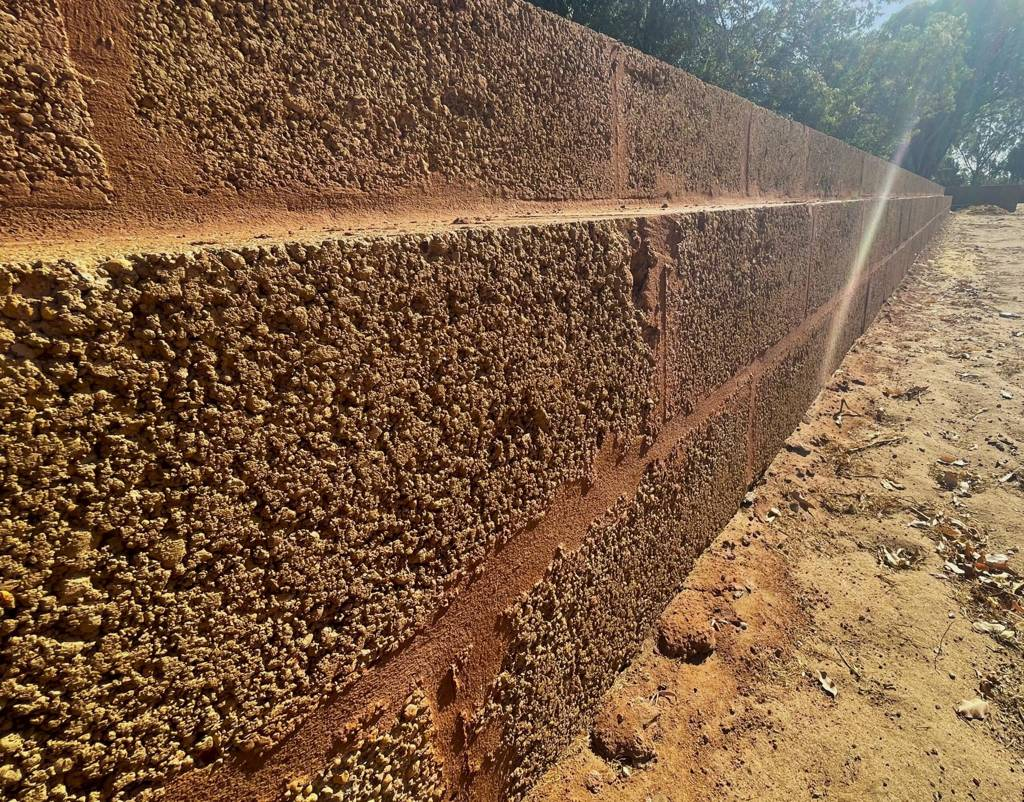
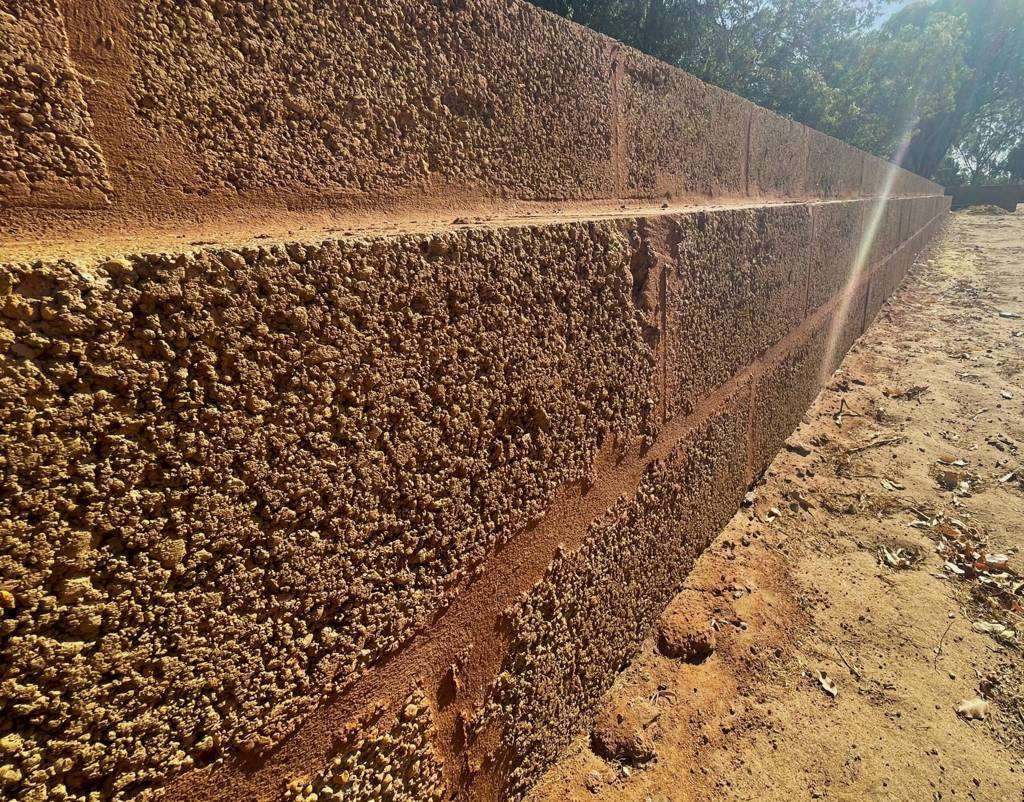
Q1 Freestanding uses limestone-pier; compress something-else

diff --git a/quiz-styles/blend.html b/quiz-styles/blend.html
@@ -45,7 +45,7 @@ select,input,textarea{background:#1f1f1f;border:1px solid #3a3a3a;color:#fff}.co
 <div class="rc"><div class="who"><div class="av">R</div><div><b>Ryan marshall</b><div class="stars">★★★★★</div></div></div><q>“Quick response, accurate online quote”</q></div><div class="rc"><div class="who"><div class="av">E</div><div><b>Emma Horne</b><div class="stars">★★★★★</div></div></div><q>“We couldn’t be happier!”</q></div><div class="rc"><div class="who"><img src="../quiz-plan/img/nasir-mastor.jpg"><div><b>Nasir Mastor</b><div class="stars">★★★★★</div></div></div><q>“Quicker than expected”</q></div></div>
 <div class="prom"><b>The $500 Two-Day Quote Promise:</b> your quote in 2 days or we pay you $500.*</div>
 <a class="cta" href="#quiz">GET MY PRICE →</a></header><div class="qz" id="quiz"><div class="hero"><button class="back" onclick="back()">← Back</button><span class="wm">GABION FABRICATION</span></div><div class="wrap"><div class="count"></div><div class="bar" style="margin-top:8px"><i></i></div>
-<section class="step active" id="q1" data-n="1"><h1>What are you after?</h1><p class="sub">Pick the closest match – takes 30 seconds.</p><div class="choices"><button class="choice tile" style="background-image:linear-gradient(0deg,rgba(0,0,0,.85),rgba(0,0,0,.2)),url('../quiz-plan/img/gabion-retaining.jpg')" data-next="q2"><span>Retaining wall</span></button><button class="choice tile" style="background-image:linear-gradient(0deg,rgba(0,0,0,.85),rgba(0,0,0,.2)),url('../quiz-plan/img/freestanding.jpg')" data-next="q2"><span>Freestanding wall</span></button><button class="choice tile" style="background-image:linear-gradient(0deg,rgba(0,0,0,.85),rgba(0,0,0,.2)),url('../quiz-plan/img/something-else.jpg')" data-next="details"><span>Something else</span></button></div></section>
+<section class="step active" id="q1" data-n="1"><h1>What are you after?</h1><p class="sub">Pick the closest match – takes 30 seconds.</p><div class="choices"><button class="choice tile" style="background-image:linear-gradient(0deg,rgba(0,0,0,.85),rgba(0,0,0,.2)),url('../quiz-plan/img/gabion-retaining.jpg')" data-next="q2"><span>Retaining wall</span></button><button class="choice tile" style="background-image:linear-gradient(0deg,rgba(0,0,0,.85),rgba(0,0,0,.2)),url('../quiz-plan/img/limestone-pier.jpg')" data-next="q2"><span>Freestanding wall</span></button><button class="choice tile" style="background-image:linear-gradient(0deg,rgba(0,0,0,.85),rgba(0,0,0,.2)),url('../quiz-plan/img/something-else.jpg')" data-next="details"><span>Something else</span></button></div></section>
 <section class="step" id="q2" data-n="2"><h1>Which wall type are you interested in?</h1><p class="sub">Not sure? Choose “Something else”.</p><div class="choices"><button class="choice tile" style="background-image:linear-gradient(0deg,rgba(0,0,0,.85),rgba(0,0,0,.2)),url('../quiz-plan/img/limestone.jpg')" data-next="size"><span>Limestone blocks</span></button><button class="choice tile" style="background-image:linear-gradient(0deg,rgba(0,0,0,.85),rgba(0,0,0,.2)),url('../quiz-plan/img/gabion-retaining.jpg')" data-next="size"><span>Gabion</span></button><button class="choice tile" style="background-image:linear-gradient(0deg,rgba(0,0,0,.85),rgba(0,0,0,.2)),url('../quiz-plan/img/craig-wall.jpg')" data-next="size"><span>Quote me for both</span></button><button class="choice tile"  data-next="details"><span>Something else</span></button></div></section>
 <section class="step" id="size" data-n="3"><h1>How big is it?</h1><p class="sub">Rough is fine – we confirm on site.</p>
 <label class="fl">Wall height<select id="h"><option value="">Select height</option><option>0.4 m (400 mm)</option><option>0.5 m (500 mm)</option><option>0.6 m (600 mm)</option><option>0.7 m (700 mm)</option><option>0.8 m (800 mm)</option><option>0.9 m (900 mm)</option><option>1.0 m (1000 mm)</option><option>1.1 m (1100 mm)</option><option>1.2 m (1200 mm)</option><option>1.3 m (1300 mm)</option><option>1.4 m (1400 mm)</option><option>1.5 m (1500 mm)</option><option>1.6 m (1600 mm)</option><option>1.7 m (1700 mm)</option><option>1.8 m (1800 mm)</option><option>1.9 m (1900 mm)</option><option>2.0 m (2000 mm)</option><option>2.1 m (2100 mm)</option><option>2.2 m (2200 mm)</option><option>2.3 m (2300 mm)</option><option>2.4 m (2400 mm)</option><option>2.5 m (2500 mm)</option><option>2.6 m (2600 mm)</option><option>2.7 m (2700 mm)</option><option>2.8 m (2800 mm)</option><option>2.9 m (2900 mm)</option><option>3.0 m (3000 mm)</option></select></label>
